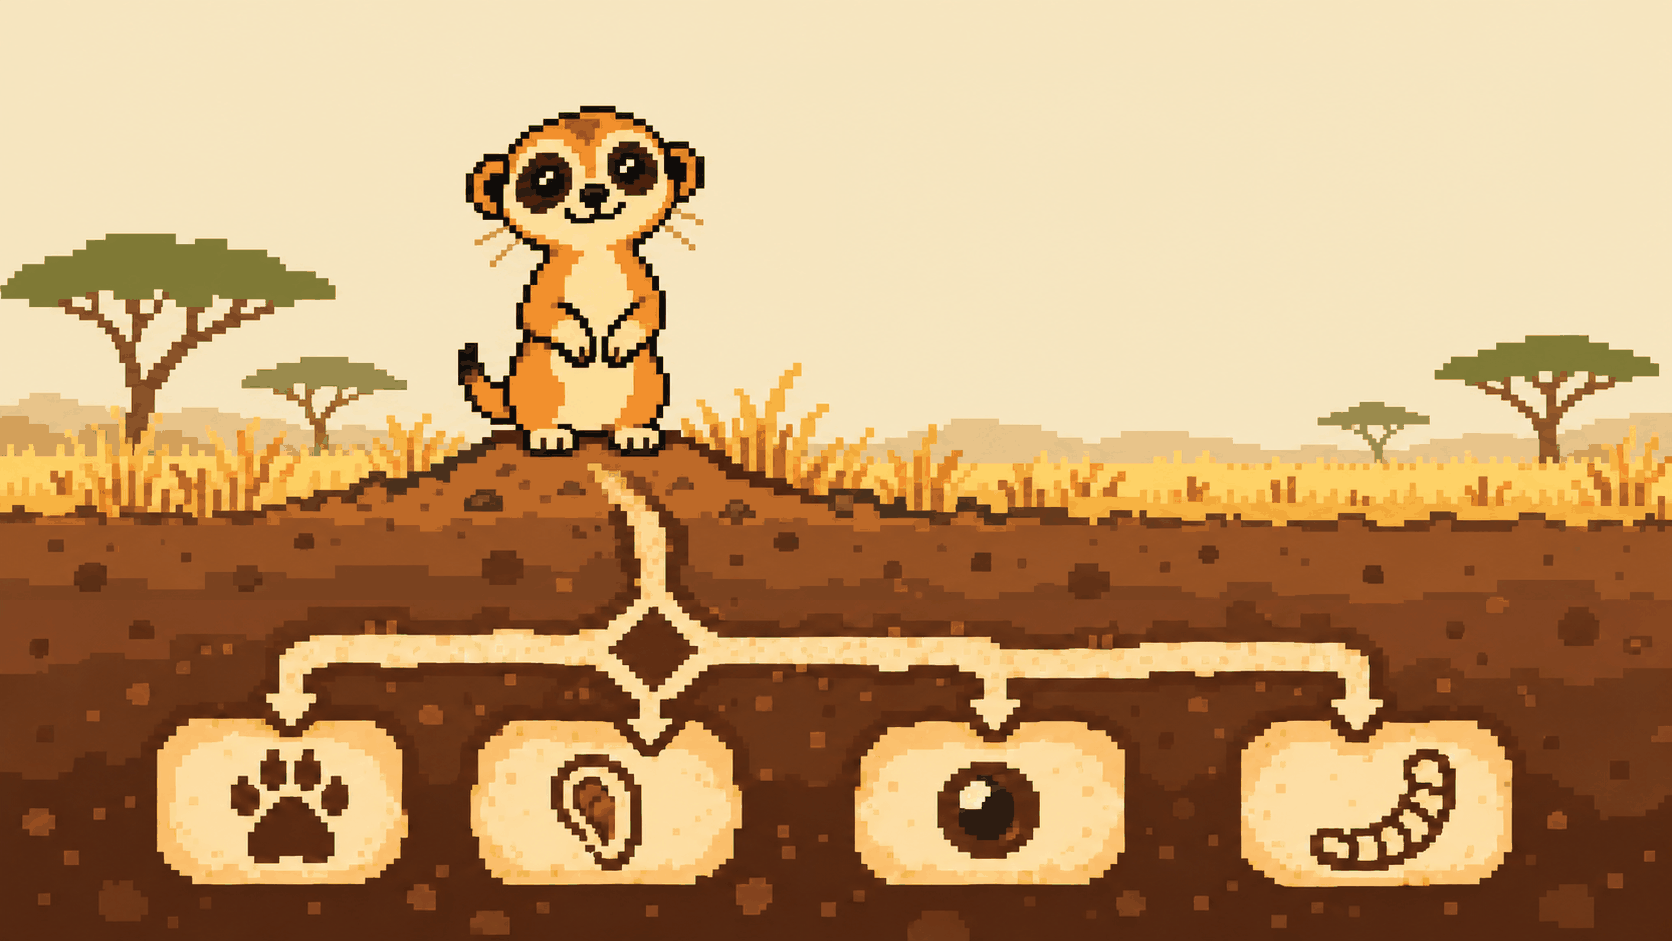
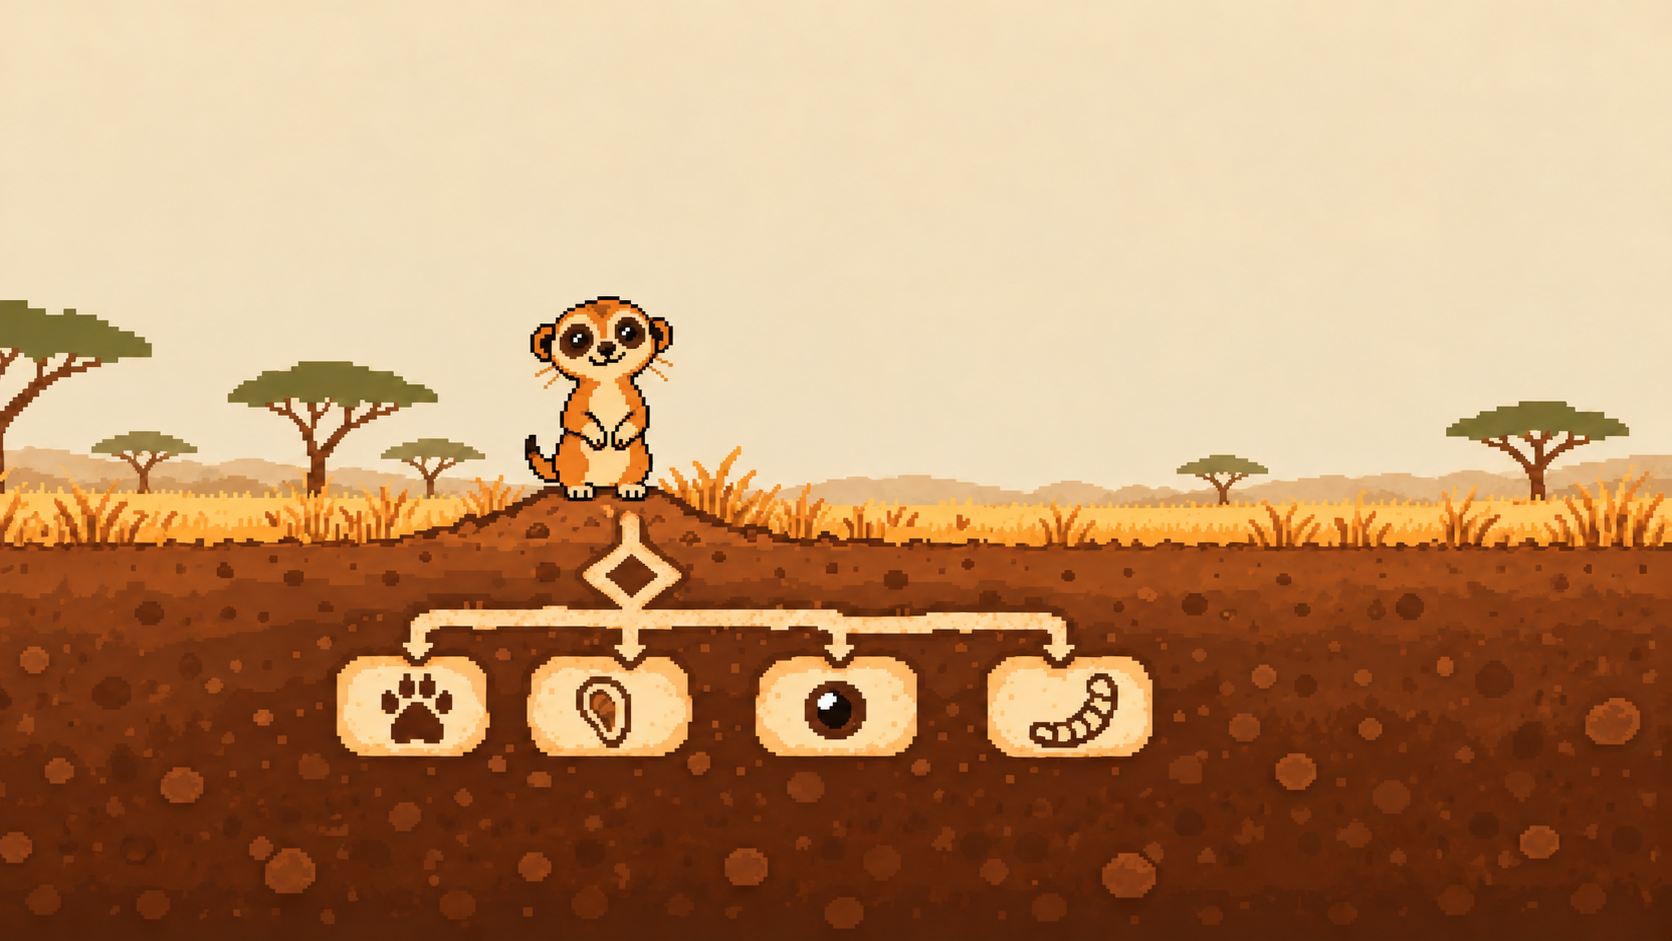
site: zoomed-out savanna with a tidier burrow, meerkat left of the copy; playground no longer widens the page on phones

diff --git a/site/style.css b/site/style.css
@@ -132,9 +132,9 @@ html { scrollbar-gutter: stable; }
   .home .top { position: absolute; inset: 0 0 auto 0; }
   .hero {
     position: absolute;
-    left: calc(var(--ox) + var(--imgw) * 0.452);
+    left: calc(var(--ox) + var(--imgw) * 0.46);
     top: max(calc(var(--oy) + var(--imgh) * 0.085), 4.75rem);
-    width: min(calc(var(--imgw) * 0.43), calc(100vw - var(--ox) - var(--imgw) * 0.452 - var(--m)));
+    width: min(calc(var(--imgw) * 0.44), calc(100vw - var(--ox) - var(--imgw) * 0.46 - var(--m)));
   }
   .hero h1 { font-size: clamp(2rem, calc(var(--imgw) * 0.0335), 6rem); }
   .hero .lead { margin-top: 0.75em; font-size: clamp(1rem, calc(var(--imgw) * 0.0113), 1.75rem); }
@@ -249,7 +249,8 @@ pre.term-out {
   font: inherit; line-height: 1.25; line-height: round(nearest, 1.25em, 1px); font-variant-ligatures: none;
 }
 .term[data-state="loading"] .out, .term[data-state="idle"] .out, .term[data-state="error"] .out { color: var(--sand); font-family: var(--text); white-space: normal; }
-.probe { position: absolute; visibility: hidden; white-space: pre; }
+.probe { position: absolute; left: 0; top: 0; visibility: hidden; white-space: pre; }
+.term { overflow: clip; }
 .term .note { white-space: pre-wrap; padding: 0 1rem 0.9rem; font: 0.8125rem / 1.4 var(--text); color: var(--gold); }
 .term .note:empty { display: none; }
 .grip {
